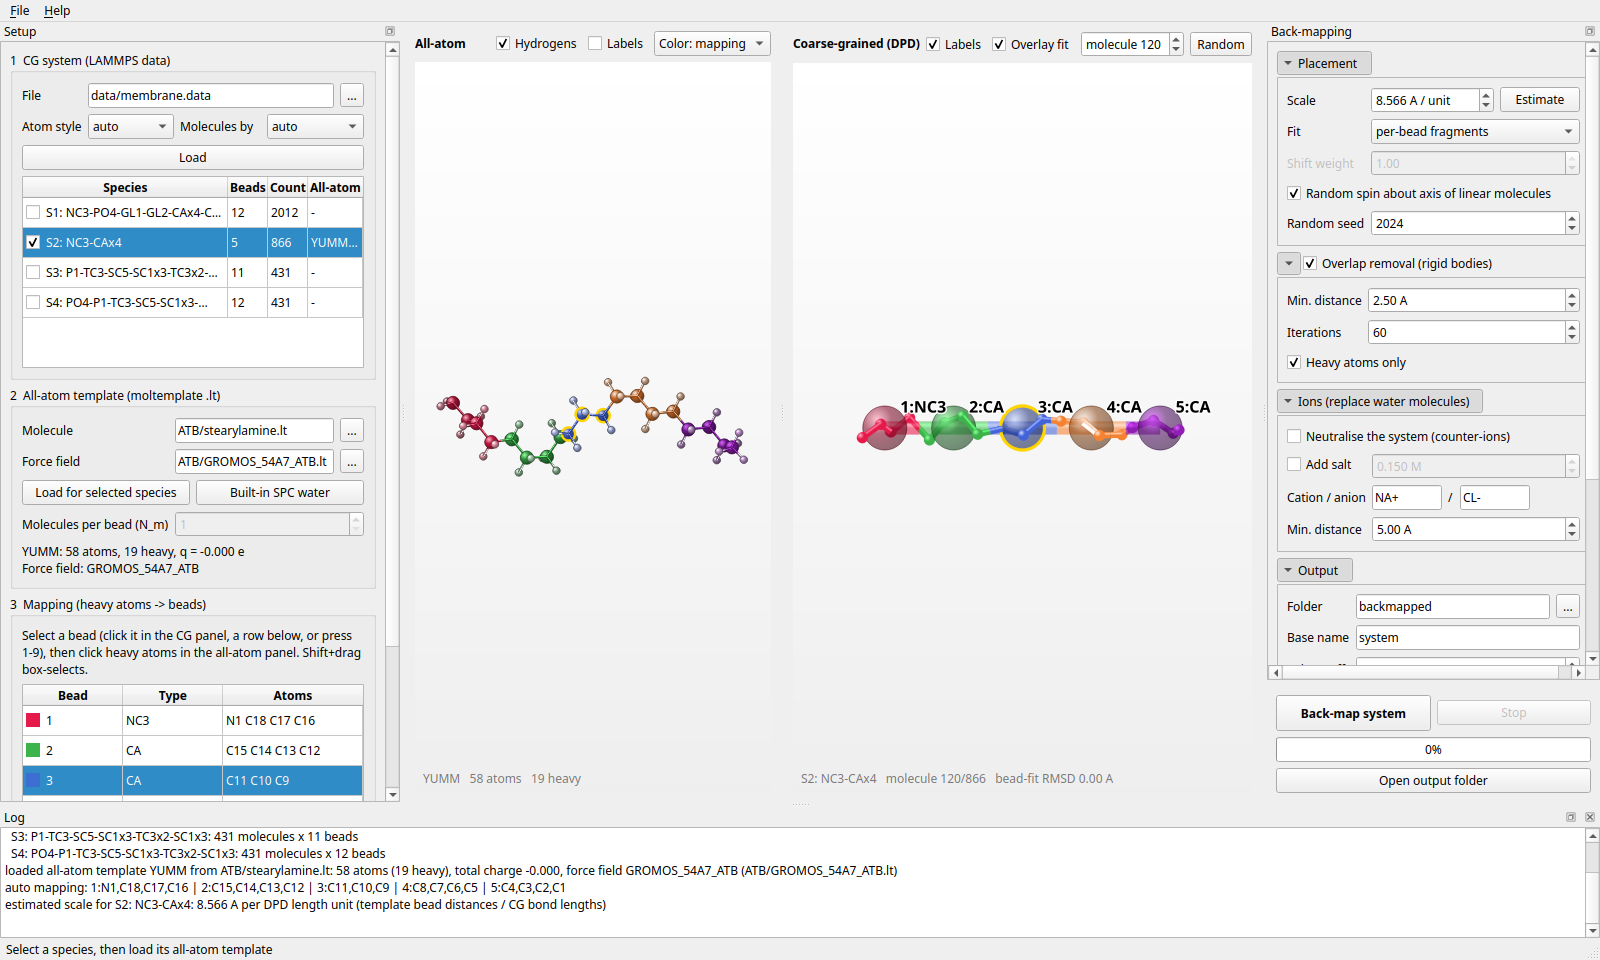
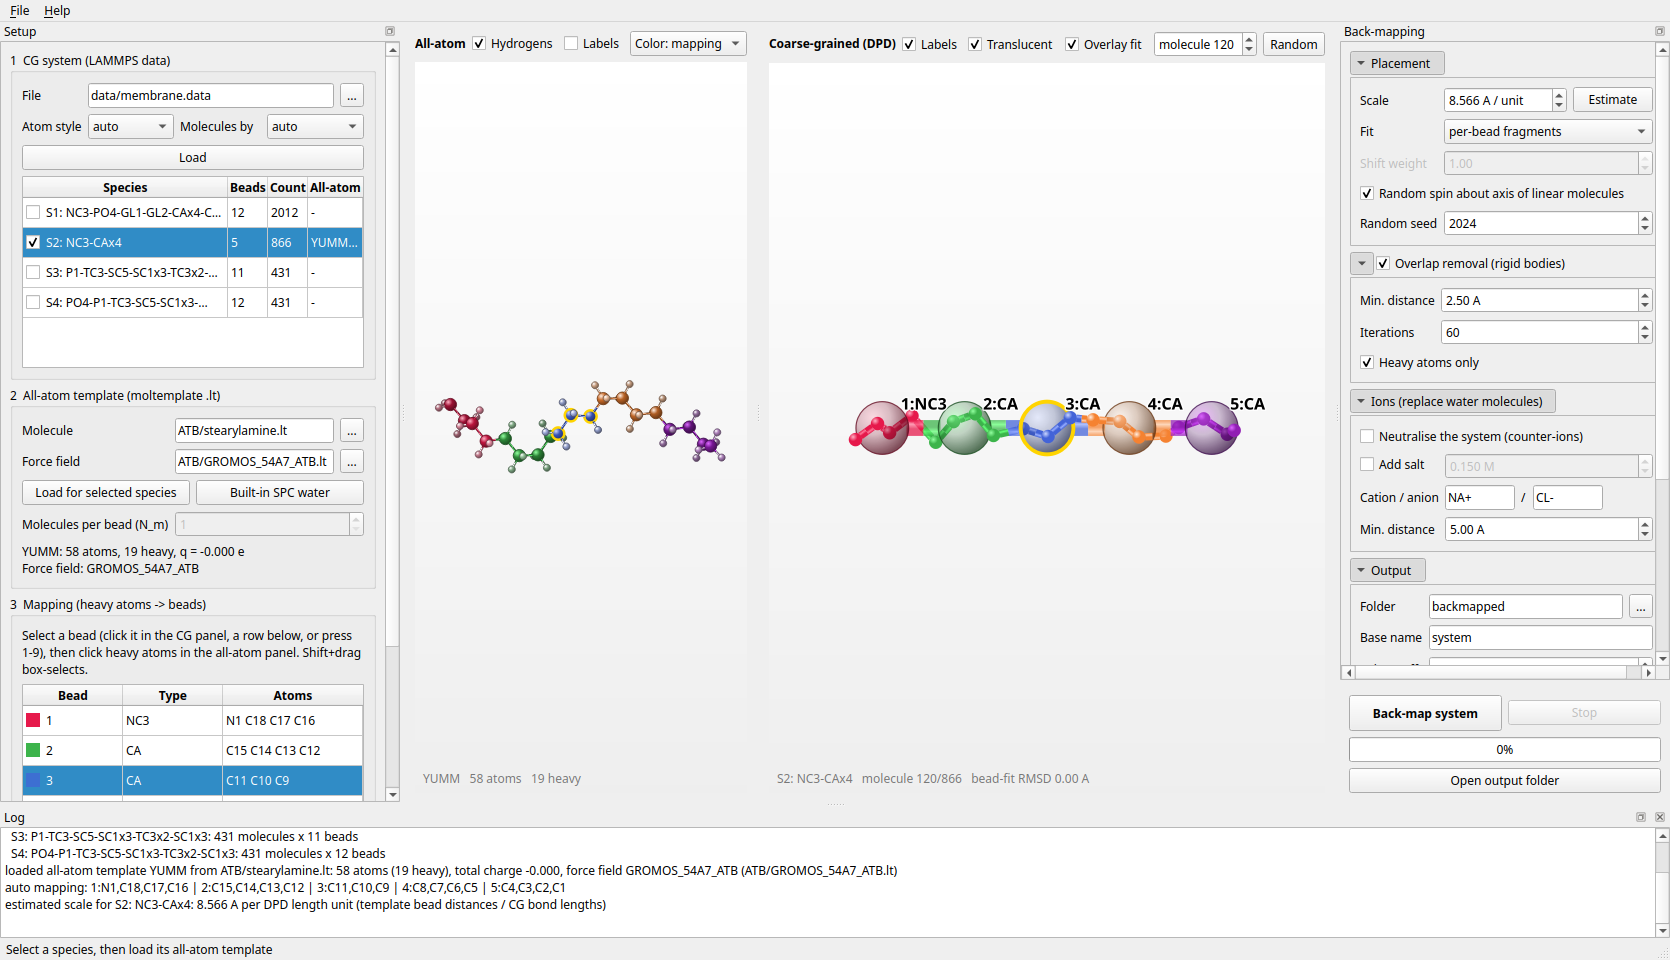
Real translucency and bonds that no longer paint over the beads
- glass-like spheres: clear in the middle, denser at the rim, so beads behind
  and the overlaid all-atom structure show through
- Translucent toggle in the CG panel (independent of the overlay)
- bonds are drawn as two halves, each trimmed to its atom's sphere surface and
  sorted by that atom's depth

diff --git a/src/revdpd/gui/mol_view.py b/src/revdpd/gui/mol_view.py
@@ -143,10 +143,17 @@ class MoleculeView(QWidget):
         """A shaded ball: bright specular highlight, body colour, darker rim."""
         base = QColor(c)
         light = QColor(base.lighter(175))
-        dark = QColor(base.darker(int(175 / fog)))
         body = QColor(base.darker(int(105 / fog)))
-        for col, a in ((light, min(255, alpha + 40)), (body, alpha), (dark, alpha)):
-            col.setAlpha(a)
+        dark = QColor(base.darker(int(175 / fog)))
+        if alpha >= 250:
+            light.setAlpha(255)
+            body.setAlpha(255)
+            dark.setAlpha(255)
+        else:
+            # glass-like: clear in the middle, denser towards the rim
+            light.setAlpha(min(255, int(alpha * 0.9)))
+            body.setAlpha(int(alpha * 0.55))
+            dark.setAlpha(min(255, int(alpha * 1.5)))
         g = QRadialGradient(QPointF(x - 0.35 * r, y - 0.4 * r), 1.45 * r)
         g.setColorAt(0.0, light)
         g.setColorAt(0.45, body)
@@ -154,31 +161,39 @@ class MoleculeView(QWidget):
         qp.setBrush(QBrush(g))
         qp.drawEllipse(QPointF(x, y), r, r)
 
-    def _bond(self, qp: QPainter, pa: QPointF, pb: QPointF, ca: QColor, cb: QColor,
-              w: float, fog: float, alpha: int = 255) -> None:
-        """Half-and-half cylinder between two atoms, shaded across its width."""
+    def _half_bond(self, qp: QPainter, pa: QPointF, pb: QPointF, c: QColor, w: float,
+                   fog: float, alpha: int = 255, ra: float = 0.0) -> None:
+        """The half of a bond that belongs to the atom at ``pa``, shaded like a cylinder.
+
+        It starts at the surface of that atom's sphere (radius ``ra`` in pixels), so a bond
+        never paints over the ball it grows out of - which would show through a translucent
+        one. Halves are drawn separately so each is sorted by the depth of its own atom.
+        """
         dx, dy = pb.x() - pa.x(), pb.y() - pa.y()
         length = (dx * dx + dy * dy) ** 0.5
         if length < 1e-6:
             return
-        nx, ny = -dy / length * w, dx / length * w
+        ux, uy = dx / length, dy / length
         mid = QPointF((pa.x() + pb.x()) / 2, (pa.y() + pb.y()) / 2)
+        t = min(ra * 0.92, 0.49 * length)
+        p0 = QPointF(pa.x() + ux * t, pa.y() + uy * t)
+        if (mid.x() - p0.x()) * ux + (mid.y() - p0.y()) * uy <= 0:
+            return                      # the sphere already reaches the middle
+        nx, ny = -uy * w, ux * w
+        body = QColor(c.darker(int(112 / fog)))
+        edge = QColor(c.darker(int(200 / fog)))
+        hi = QColor(c.lighter(150))
+        for col in (body, edge, hi):
+            col.setAlpha(alpha)
+        g = QLinearGradient(p0.x() - nx, p0.y() - ny, p0.x() + nx, p0.y() + ny)
+        g.setColorAt(0.0, edge)
+        g.setColorAt(0.28, hi)
+        g.setColorAt(0.55, body)
+        g.setColorAt(1.0, edge)
         qp.setPen(Qt.NoPen)
-        for p0, c in ((pa, ca), (pb, cb)):
-            body = QColor(c.darker(int(112 / fog)))
-            edge = QColor(c.darker(int(200 / fog)))
-            hi = QColor(c.lighter(150))
-            for col, al in ((body, alpha), (edge, alpha), (hi, alpha)):
-                col.setAlpha(al)
-            g = QLinearGradient(p0.x() - nx, p0.y() - ny, p0.x() + nx, p0.y() + ny)
-            g.setColorAt(0.0, edge)
-            g.setColorAt(0.28, hi)
-            g.setColorAt(0.55, body)
-            g.setColorAt(1.0, edge)
-            quad = QPolygonF([QPointF(p0.x() - nx, p0.y() - ny), QPointF(mid.x() - nx, mid.y() - ny),
-                              QPointF(mid.x() + nx, mid.y() + ny), QPointF(p0.x() + nx, p0.y() + ny)])
-            qp.setBrush(QBrush(g))
-            qp.drawPolygon(quad)
+        qp.setBrush(QBrush(g))
+        qp.drawPolygon(QPolygonF([QPointF(p0.x() - nx, p0.y() - ny), QPointF(mid.x() - nx, mid.y() - ny),
+                                  QPointF(mid.x() + nx, mid.y() + ny), QPointF(p0.x() + nx, p0.y() + ny)]))
 
     def _label(self, qp: QPainter, x: float, y: float, text: str, colour: QColor,
                halo: QColor) -> None:
@@ -214,11 +229,13 @@ class MoleculeView(QWidget):
             items.append((dep[i], 1, int(i)))
         for (a, b) in self.bonds:
             if self.visible[a] and self.visible[b]:
-                items.append(((dep[a] + dep[b]) / 2 - 1e-3, 0, (a, b)))
+                items.append((0.75 * dep[a] + 0.25 * dep[b] - 1e-3, 0, (a, b)))
+                items.append((0.75 * dep[b] + 0.25 * dep[a] - 1e-3, 0, (b, a)))
         if len(self.overlay_pos):
             osc, odep = self._project(self.overlay_pos)
             for a, b in self.overlay_bonds:
-                items.append(((odep[a] + odep[b]) / 2 - 1e-3, 2, (a, b)))
+                items.append((0.75 * odep[a] + 0.25 * odep[b] - 1e-3, 2, (a, b)))
+                items.append((0.75 * odep[b] + 0.25 * odep[a] - 1e-3, 2, (b, a)))
             for k in range(len(self.overlay_pos)):
                 items.append((odep[k], 3, k))
         items.sort(key=lambda t: t[0])
@@ -229,8 +246,9 @@ class MoleculeView(QWidget):
             fog = 0.6 + 0.4 * (z - zmin) / span
             if kind == 0:
                 a, b = d
-                self._bond(qp, QPointF(*scr[a]), QPointF(*scr[b]), self.colors[a], self.colors[b],
-                           bond_w, fog, self.alpha)
+                ra = max(2.0, self.radii[a] * self.zoom)
+                self._half_bond(qp, QPointF(*scr[a]), QPointF(*scr[b]), self.colors[a],
+                                bond_w, fog, min(255, self.alpha + 70), ra)
             elif kind == 1:
                 i = d
                 r = max(2.0, self.radii[i] * self.zoom)
@@ -241,14 +259,14 @@ class MoleculeView(QWidget):
                 elif i == self._hover and self.pickable[i]:
                     qp.setPen(QPen(pal.highlight().color(), 2.0))
                 else:
-                    rim = QColor(self.colors[i].darker(260))
-                    rim.setAlpha(min(255, self.alpha + 30))
-                    qp.setPen(QPen(rim, 0.8))
+                    rim = QColor(self.colors[i].darker(230))
+                    rim.setAlpha(255 if self.alpha >= 250 else min(255, self.alpha + 80))
+                    qp.setPen(QPen(rim, 0.8 if self.alpha >= 250 else 1.2))
                 self._sphere(qp, x, y, r, self.colors[i], fog, self.alpha)
             elif kind == 2:
                 a, b = d
-                self._bond(qp, QPointF(*osc[a]), QPointF(*osc[b]), self.overlay_colors[a],
-                           self.overlay_colors[b], 0.55 * ov_r, fog)
+                self._half_bond(qp, QPointF(*osc[a]), QPointF(*osc[b]), self.overlay_colors[a],
+                                0.55 * ov_r, fog, 255, ov_r)
             else:
                 k = d
                 qp.setPen(Qt.NoPen)

diff --git a/src/revdpd/gui/main_window.py b/src/revdpd/gui/main_window.py
@@ -176,6 +176,9 @@ class MainWindow(QMainWindow):
         self.cmb_color.addItems(["Color: mapping", "Color: element"])
         self.chk_cg_labels = QCheckBox("Labels")
         self.chk_cg_labels.setChecked(True)
+        self.chk_trans = QCheckBox("Translucent")
+        self.chk_trans.setToolTip("Draw the CG beads semi-transparent")
+        self.chk_trans.setChecked(True)
         self.chk_overlay = QCheckBox("Overlay fit")
         self.chk_overlay.setToolTip("Show the all-atom template fitted onto this CG molecule")
         self.chk_overlay.setChecked(True)
@@ -193,7 +196,7 @@ class MainWindow(QMainWindow):
         la.addWidget(self.aa_view, 1)
         cg_panel = QWidget()
         lc = QVBoxLayout(cg_panel)
-        lc.addWidget(_hline(self.lbl_cg_title, 1, self.chk_cg_labels, self.chk_overlay,
+        lc.addWidget(_hline(self.lbl_cg_title, 1, self.chk_cg_labels, self.chk_trans, self.chk_overlay,
                             self.spn_instance, self.btn_rand_inst))
         lc.addWidget(self.cg_view, 1)
         split = QSplitter(Qt.Horizontal)
@@ -551,6 +554,7 @@ class MainWindow(QMainWindow):
         self.chk_cg_labels.toggled.connect(self.cg_view.set_show_labels)
         self.cg_view.set_show_labels(True)
         self.chk_overlay.toggled.connect(lambda: self.refresh_cg(reset=False))
+        self.chk_trans.toggled.connect(lambda: self.refresh_cg(reset=False))
         self.spn_instance.valueChanged.connect(lambda: self.refresh_cg(reset=True))
         self.btn_rand_inst.clicked.connect(self.random_instance)
         for w in (self.spn_scale, self.spn_flex):
@@ -1075,7 +1079,10 @@ class MainWindow(QMainWindow):
         overlay = bool(self.chk_overlay.isChecked() and st and st.aa and st.mapping
                        and (len(st.mapping.mapped_beads()) >= 2 or st.copies > 1))
         cols = [QColor(BEAD_COLORS[b % len(BEAD_COLORS)]) for b in range(sp.n_beads)]
-        self.cg_view.set_alpha(150 if overlay else 255)
+        if self.chk_trans.isChecked():
+            self.cg_view.set_alpha(120 if overlay else 165)
+        else:
+            self.cg_view.set_alpha(255)
         labels = [f"{b + 1}:{n}" for b, n in enumerate(sp.bead_names)]
         if reset or len(self.cg_view.pos) != sp.n_beads:
             self.cg_view.set_molecule(x, np.full(sp.n_beads, r), cols, sp.bonds, labels, reset_view=True)

diff --git a/README.md b/README.md
@@ -27,7 +27,8 @@ Optionally it removes overlaps and minimises the result with LAMMPS.
   heavy atoms on the all-atom side. Hydrogens follow their heavy atom. An *Auto (chain)*
   proposal is available for chain-like molecules.
 - Live preview of the fitted molecule on top of any CG molecule of the species; the CG
-  beads turn translucent so the all-atom structure inside them stays visible.
+  beads are drawn translucent (*Translucent*), so the all-atom structure inside them
+  and beads behind them stay visible.
 - Scale (Å per DPD length unit) can be estimated from the template and CG bond lengths.
 - Placement by **Kabsch** fit of bead centres, in three modes: *rigid* template,
   *rigid + per-bead shift*, and **per-bead fragments** (every bead's atom group is aligned
